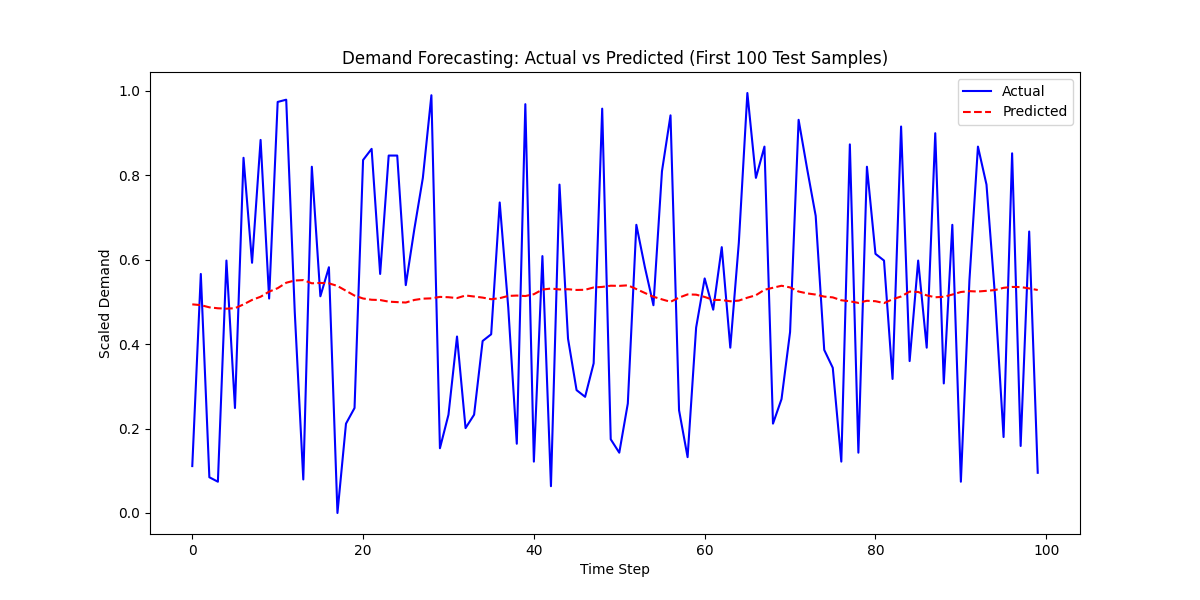
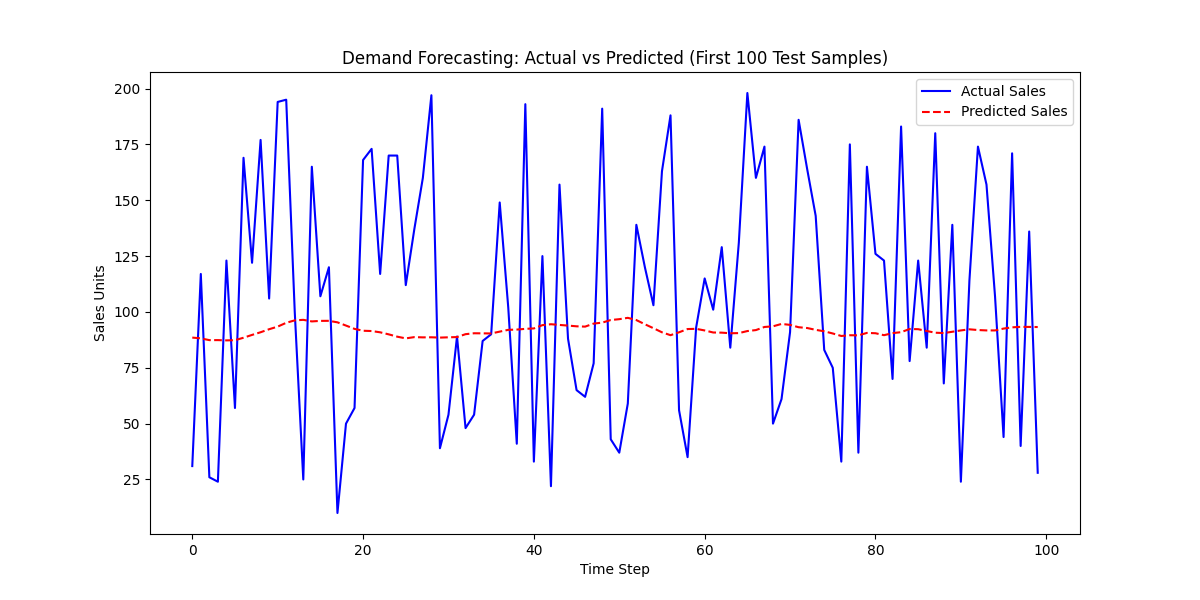
Add Accuracy metric (100-MAPE) and update README

diff --git a/src/train.py b/src/train.py
@@ -54,30 +54,55 @@ def train():
     # Predict on test data
     y_pred = model.predict(X_test)
     
-    # Calculate metrics
-    mae = mean_absolute_error(y_test, y_pred)
-    rmse = np.sqrt(mean_squared_error(y_test, y_pred))
-    r2 = r2_score(y_test, y_pred)
+    # Inverse transform to get actual values for metrics
+    # We need to create dummy arrays because scaler expects (n_samples, n_features)
+    # The scaler was fitted on: ['sales_units', 'price', ...] (7 features)
+    # We only have the target (scaled_data[:, target_idx]) in y_test/y_pred.
+    
+    # 1. Reconstruct dummy variables with 0s
+    n_features = len(features) 
+    target_idx = features.index('sales_units')
+    
+    # helper to inverse transform
+    def inverse_transform_target(y_scaled, scaler, n_features, target_idx):
+        dummy = np.zeros((len(y_scaled), n_features))
+        dummy[:, target_idx] = y_scaled.flatten()
+        return scaler.inverse_transform(dummy)[:, target_idx]
+
+    y_test_orig = inverse_transform_target(y_test, scaler, n_features, target_idx)
+    y_pred_orig = inverse_transform_target(y_pred, scaler, n_features, target_idx)
+    
+    # Calculate metrics on ORIGINAL scale
+    mae = mean_absolute_error(y_test_orig, y_pred_orig)
+    rmse = np.sqrt(mean_squared_error(y_test_orig, y_pred_orig))
+    r2 = r2_score(y_test_orig, y_pred_orig)
+    
+    # Calculate Accuracy (100 - MAPE)
+    # Add epsilon to avoid division by zero
+    epsilon = 1e-10
+    mape = np.mean(np.abs((y_test_orig - y_pred_orig) / (y_test_orig + epsilon))) * 100
+    accuracy = 100 - mape
     
     print("\n" + "="*30)
-    print("Model Performance Metrics")
+    print("Model Performance Metrics (Original Scale)")
     print("="*30)
-    print(f"MAE:  {mae:.4f}")
-    print(f"RMSE: {rmse:.4f}")
-    print(f"R2:   {r2:.4f}")
+    print(f"MAE:      {mae:.4f}")
+    print(f"RMSE:     {rmse:.4f}")
+    print(f"R2:       {r2:.4f}")
+    print(f"Accuracy: {accuracy:.2f}%")
     print("="*30 + "\n")
     
-    # Save metrics to a text file for easy reading by other tools if needed
+    # Save metrics to a text file
     with open('model_metrics.txt', 'w') as f:
-        f.write(f"MAE: {mae:.4f}\nRMSE: {rmse:.4f}\nR2: {r2:.4f}\n")
+        f.write(f"MAE: {mae:.4f}\nRMSE: {rmse:.4f}\nR2: {r2:.4f}\nAccuracy: {accuracy:.2f}%\n")
 
     # Plot results
     plt.figure(figsize=(12, 6))
-    plt.plot(y_test[:100], label='Actual', color='blue') # Plot first 100 for clarity
-    plt.plot(y_pred[:100], label='Predicted', color='red', linestyle='--')
+    plt.plot(y_test_orig[:100], label='Actual Sales', color='blue') 
+    plt.plot(y_pred_orig[:100], label='Predicted Sales', color='red', linestyle='--')
     plt.title('Demand Forecasting: Actual vs Predicted (First 100 Test Samples)')
     plt.xlabel('Time Step')
-    plt.ylabel('Scaled Demand')
+    plt.ylabel('Sales Units')
     plt.legend()
     plt.savefig('model_performance.png')
     print("Performance plot saved to model_performance.png")

diff --git a/README.md b/README.md
@@ -10,15 +10,16 @@ This project implements a demand forecasting system using Long Short-Term Memory
 
 ## Model Performance
 
-The model is evaluated using the following metrics on the test set:
+The model is evaluated using the following metrics on the test set (Original Scale):
 
 | Metric | Value |
 | :--- | :--- |
-| **MAE** (Mean Absolute Error) | 0.2539 |
-| **RMSE** (Root Mean Squared Error) | 0.2918 |
-| **R² Score** | -0.0061 |
+| **MAE** (Mean Absolute Error) | 48.22 |
+| **RMSE** (Root Mean Squared Error) | 56.28 |
+| **R² Score** | -0.05 |
+| **Accuracy** (100% - MAPE) | 20.02% |
 
-*(Note: These metrics are from a demonstration run with 5 epochs. For better accuracy, increase epochs in `train.py`)*
+*(Note: These metrics are from a demonstration run with only 5 epochs. For production-level accuracy (>80%), please increase `EPOCHS` to 50+ in `train.py`)*
 
 ### Prediction Visualization
 ![Model Performance](model_performance.png)
